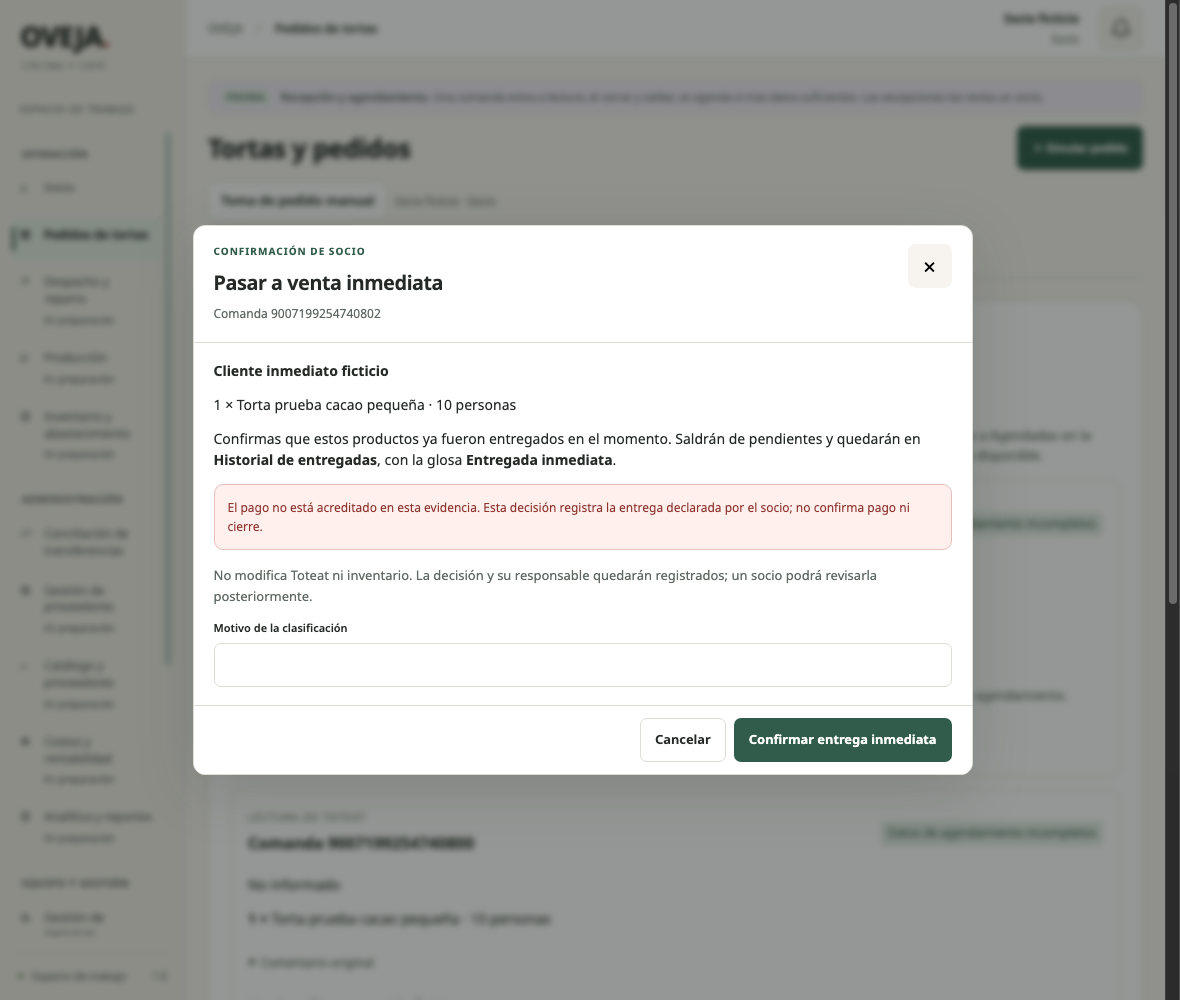
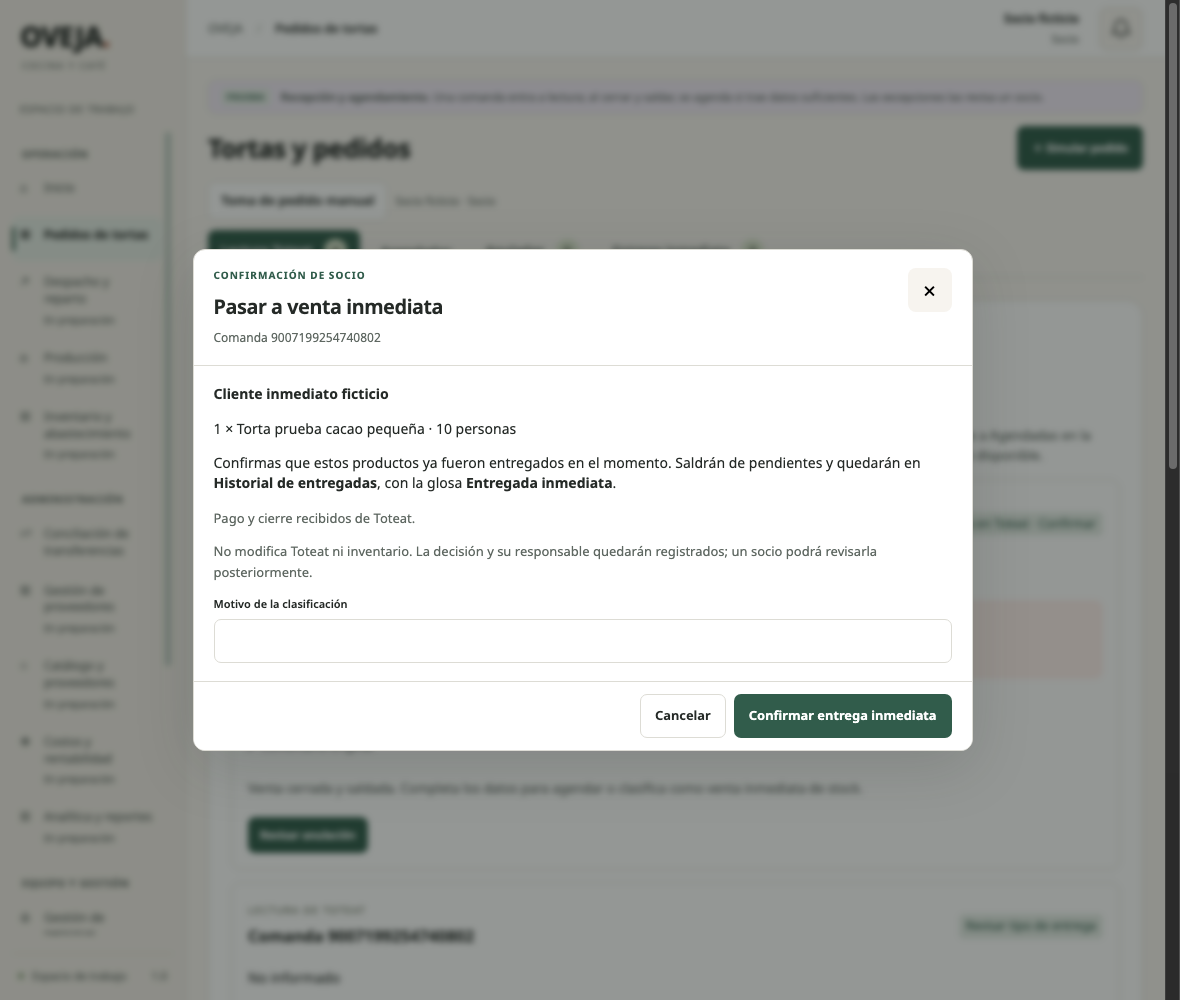
Require settled source for immediate delivery and confirm local cancellations

diff --git a/static/reception.js b/static/reception.js
@@ -1,33 +1,34 @@
 'use strict';
 
-const sourceAlertLabel = alert => ({cancelled:'Anulado',partial_cancel:'Anulación parcial · revisar',refund_review:'Documento financiero anulado · revisar'}[alert?.state]||'');
+const sourceAlertLabel = alert => ({cancelled:alert?.resolution==='cancel'?'Anulado':'Anulada en Toteat · Confirmar',partial_cancel:'Anulación parcial · revisar',refund_review:'Documento financiero anulado · revisar'}[alert?.state]||'');
 function sourceAlertHTML(alert) {
   if(!alert)return '';
-  return `<div class="source-alert ${alert.state==='cancelled'?'cancelled':''}"><strong>${escapeHTML(sourceAlertLabel(alert))}</strong><p>${alert.state==='cancelled'?'Se anularon los compromisos pendientes. Las entregas ya realizadas se conservan en el historial.':alert.resolution==='keep'?'Un socio revisó la alerta y mantuvo el encargo.':'Comprueba con el cliente si se mantiene, cambia o anula el encargo. Una nota de crédito no demuestra por sí sola la cancelación completa.'}</p></div>`;
+  return `<div class="source-alert ${alert.state==='cancelled'?'cancelled':''}"><strong>${escapeHTML(sourceAlertLabel(alert))}</strong><p>${alert.state==='cancelled'?(alert.resolution==='cancel'?'Anulación confirmada en el ERP. Las entregas realizadas se conservan en el historial.':'Toteat informa una anulación. Un socio debe confirmar Anular en ERP; los estados locales todavía se conservan.'):alert.resolution==='keep'?'Un socio revisó la alerta y mantuvo el encargo.':'Comprueba con el cliente si se mantiene, cambia o anula el encargo. Una nota de crédito no demuestra por sí sola la cancelación completa.'}</p></div>`;
 }
 function receptionCard(order,resolved=false) {
   const reception=order.reception||{},alert=reception.alert;
   const immediate=reception.decision?.decision==='immediate';
   const closed=Boolean(reception.closed_at||order.sales_comment_evidence?.length||order.status_label==='CLOSED');
-  const incomplete=closed&&Boolean(reception.parsed?.issues?.length);
-  const title=immediate?'Entregada inmediata':alert?sourceAlertLabel(alert):incomplete?'Datos de agendamiento incompletos':closed&&!reception.payment?'Mesa cerrada · revisar pago':closed?'Pendiente de revisión':'Esperando pago y cierre';
+  const incomplete=reception.can_classify_immediate===true;
+  const title=alert?sourceAlertLabel(alert):immediate?'Entregada inmediata':incomplete?'Revisar tipo de entrega':closed&&!reception.closed_payload_received?'Esperando datos de venta cerrada':closed&&!reception.payment?'Mesa cerrada · revisar pago':closed?'Pendiente de revisión':'Esperando pago y cierre · Datos pendientes de recibir';
   const missing=reception.missing_fields||[...(reception.parsed?.issues||[]),...(reception.parsed?.warnings||[])].map(code=>({nombre_pendiente:'Nombre y apellido',fecha_pendiente:'Fecha de entrega',horario_pendiente:'Hora de entrega',telefono_pendiente:'Teléfono'}[code])).filter(Boolean);
 
-  return `<article class="reception-card"><header><div><small>LECTURA DE TOTEAT</small><h3>Comanda ${escapeHTML(order.order_id)}</h3></div><span class="timing-label">${escapeHTML(title)}</span></header><p>${escapeHTML(reception.channel||'No informado')}${order.vendor?` · ${escapeHTML(order.vendor)}`:''}</p>${sourceAlertHTML(alert)}${order.items.map(item=>`<p><strong>${escapeHTML(item.quantity)} ×</strong> ${escapeHTML(item.productName||'Producto del catálogo')}</p>`).join('')}<details data-comment-key="${escapeHTML(order.key)}" ${state.commentDisclosure.get(order.key)!==false?'open':''}><summary>Comentario original</summary><p class="source-comment">${escapeHTML(reception.original_comment || order.comments.map(c=>c.text).join('\n') || 'Toteat todavía no entrega el comentario del cliente.')}</p></details>${incomplete&&!immediate?`<p class="hint">Falta revisar: ${missing.map(escapeHTML).join(' · ')}. Confirma si fue entrega inmediata o completa los datos de agendamiento.</p>`:''}${reception.payment&&!immediate&&!reception.order_id?'<p class="hint">Venta cerrada y saldada. Completa los datos para agendar o clasifica como venta inmediata de stock.</p>':''}<div class="actions">${state.partner?`<button class="button ${resolved?'secondary':'primary'}" data-action="reception" data-key="${escapeHTML(order.key)}">${resolved?'Ver revisión e historial':reception.order_id?'Revisar alerta y pedido':reception.payment?'Completar o clasificar':'Forzar agendamiento'}</button>`:'<small>La revisión y autorización corresponden a un socio.</small>'}${state.partner&&!resolved&&!reception.order_id&&!alert?`<button class="button secondary" data-action="reception-immediate-open" data-key="${escapeHTML(order.key)}">Pasar a venta inmediata</button>`:''}${reception.order_id?`<button class="button secondary" data-action="detail" data-id="${reception.order_id}">Ver pedido agendado</button>`:''}</div></article>`;
+  return `<article class="reception-card"><header><div><small>LECTURA DE TOTEAT</small><h3>Comanda ${escapeHTML(order.order_id)}</h3></div><span class="timing-label">${escapeHTML(title)}</span></header><p>${escapeHTML(reception.channel||'No informado')}${order.vendor?` · ${escapeHTML(order.vendor)}`:''}</p>${sourceAlertHTML(alert)}${order.items.map(item=>`<p><strong>${escapeHTML(item.quantity)} ×</strong> ${escapeHTML(item.productName||'Producto del catálogo')}</p>`).join('')}<details data-comment-key="${escapeHTML(order.key)}" ${state.commentDisclosure.get(order.key)!==false?'open':''}><summary>Comentario original</summary><p class="source-comment">${escapeHTML(reception.closed_payload_received?(reception.original_comment||'La venta cerrada no trae comentario.'):(reception.original_comment||order.comments.map(c=>c.text).join('\n')||'Datos pendientes de recibir desde Toteat.'))}</p></details>${incomplete&&!immediate?`<p class="hint">Falta revisar: ${missing.map(escapeHTML).join(' · ')}. Confirma si fue entrega inmediata o completa los datos de agendamiento.</p>`:''}${reception.payment&&!immediate&&!reception.order_id?'<p class="hint">Venta cerrada y saldada. Completa los datos para agendar o clasifica como venta inmediata de stock.</p>':''}<div class="actions">${state.partner?`<button class="button ${resolved?'secondary':'primary'}" data-action="reception" data-key="${escapeHTML(order.key)}">${resolved?'Ver revisión e historial':alert&&!alert.resolution?'Revisar anulación':reception.order_id?'Revisar alerta y pedido':reception.payment?'Completar o clasificar':'Forzar agendamiento'}</button>`:'<small>La revisión y autorización corresponden a un socio.</small>'}${state.partner&&!resolved&&reception.can_classify_immediate===true?`<button class="button secondary" data-action="reception-immediate-open" data-key="${escapeHTML(order.key)}">Pasar a venta inmediata</button>`:''}${reception.order_id?`<button class="button secondary" data-action="detail" data-id="${reception.order_id}">Ver pedido agendado</button>`:''}</div></article>`;
 }
 function renderToteat() {
   const board=state.board,reader=board.toteat||{state:'not_configured',orders:[]};
-  $('#toteat-panel').classList.toggle('hidden',board.operating_mode!=='toteat-local'||state.view!=='inbox');
+  $('#toteat-panel').classList.toggle('hidden',board.operating_mode!=='toteat-local'||state.view==='agenda');
   const fresh=reader.state==='receiving'&&reader.last_success&&Date.now()-Date.parse(reader.last_success)<90000;
   const sales=reader.sales_reader,salesFresh=sales?.state==='receiving'&&sales.last_success&&Date.now()-Date.parse(sales.last_success)<240000;
   $('#toteat-reader-state').textContent=(fresh?'Lectura activa · cada 30 segundos':'Lectura pendiente o sin actualización reciente')+(salesFresh?' · Ventas cada 90 segundos':' · Ventas por revisar');
   const pending=reader.orders||[],resolved=reader.reviewed_orders||[];
-  $('#toteat-count').textContent=pending.length;
-  $('#toteat-orders').innerHTML=pending.map(order=>receptionCard(order)).join('')||'<div class="empty compact"><strong>Sin comandas pendientes.</strong>Los encargos confirmados están en Agendadas.</div>';
-  const delivered=resolved.filter(order=>order.reception?.decision?.decision==='immediate'),cancelled=resolved.filter(order=>order.reception?.decision?.decision!=='immediate');
-  if(delivered.length)$('#toteat-orders').insertAdjacentHTML('beforeend',`<details class="resolved-receptions"><summary>Historial de entregadas · ${delivered.length}</summary>${delivered.map(order=>receptionCard(order,true)).join('')}</details>`);
-  if(cancelled.length)$('#toteat-orders').insertAdjacentHTML('beforeend',`<details class="resolved-receptions"><summary>Historial de anuladas · ${cancelled.length}</summary>${cancelled.map(order=>receptionCard(order,true)).join('')}</details>`);
-  if(board.operating_mode==='toteat-local'&&(state.scope==='operations'||state.view==='inbox')) {
+  const cancelled=resolved.filter(order=>order.reception?.alert?.resolution==='cancel'),delivered=resolved.filter(order=>order.reception?.alert?.resolution!=='cancel'&&order.reception?.decision?.decision==='immediate');
+  $('#cancelled-tab-count').textContent=cancelled.length;$('#immediate-tab-count').textContent=delivered.length;
+  const history=state.view==='cancelled'||state.view==='immediate';
+  const shown=state.view==='cancelled'?cancelled:state.view==='immediate'?delivered:pending;
+  $('#toteat-count').textContent=shown.length;
+  $('#toteat-orders').innerHTML=(history?`<h3>${state.view==='cancelled'?'Historial de anuladas':'Historial de entregadas'}</h3><p class="hint">Mismos registros de origen y trazabilidad conservada.</p>`:'')+(shown.map(order=>receptionCard(order,history)).join('')||`<div class="empty compact"><strong>${history?'Sin registros en este historial.':'Sin comandas pendientes.'}</strong>${history?'Las decisiones confirmadas aparecerán aquí.':'Los encargos confirmados están en Agendadas.'}</div>`);
+  if(board.operating_mode==='toteat-local'&&(state.scope==='operations'||state.view!=='agenda')) {
     $('.connection').textContent=fresh?'Toteat · lectura activa':'Toteat · lectura por revisar';
     $('#data-notice').innerHTML='<strong>Recepción y agendamiento.</strong> Una comanda entra a lectura; al cerrar y saldar, se agenda si trae datos suficientes. Las excepciones las revisa un socio.';
   }
@@ -40,10 +41,10 @@ async function showReception(key) {
     const blocked=alert?.state==='cancelled'||(alert&&!alert.resolution);
     const immediate=context.decision?.decision==='immediate';
     const canSchedule=!context.order_id&&!blocked;
-    const body=`${sourceAlertHTML(alert)}<div class="detail-field source-comment"><small>Comentario original · conservado</small>${escapeHTML(context.original_comment||'Sin comentario del cliente')}</div><p>${context.payment?'Cierre y saldo recibidos de Toteat.':context.closed_at?'Mesa cerrada. El detalle del pago debe revisarse; no se registra dinero al clasificar.':'Sin cierre y saldo acreditados. Forzar agendamiento requiere autorización del socio y no registra pago.'}</p>${canSchedule?`<form id="reception-form"><div id="form-error" class="error hidden" role="alert"></div><div class="form-grid">${field('Nombre y apellido','customer',parsed.customer,'text','required maxlength="160"')}${field('Teléfono','customer_phone',parsed.customer_phone,'tel','required maxlength="25"')}${field('Fecha y hora de entrega · Chile','pickup_at',parsed.pickup_at||'','datetime-local','required')}${selectField('Modalidad','fulfillment',[['retiro','Retiro en local'],['despacho','Delivery']],'retiro')}${field('Dirección para delivery','delivery_address','','text','maxlength="500"')}${selectField('Canal de origen','channel',[['Presencial','Presencial'],['Instagram','Instagram'],['Web/Mercat','Web/Mercat'],['','Seleccionar canal']],context.channel==='No informado'?'':context.channel)}<label class="field full">Motivo de autorización o clasificación<input name="reason" required maxlength="500"></label><label class="check-field full"><input name="is_test" type="checkbox" ${parsed.test_marker?'checked':''}>Prueba ficticia</label></div><h3 class="section-label">Productos recibidos</h3>${context.received.items.map(i=>`<p>${escapeHTML(i.quantity)} × ${escapeHTML(i.productName)}</p>`).join('')}<p class="hint">El cierre posterior se vinculará a este mismo pedido, preservando las modificaciones del cliente.</p></form>`:`<form id="reception-decision-form"><div id="form-error" class="error hidden" role="alert"></div>${alert&&alert.state!=='cancelled'&&!alert.resolution?`${selectField('Resolución','decision',[['keep','Mantener el encargo'],['cancel','Confirmar anulación del encargo']],'keep')}${field('Motivo y verificación realizada','reason','','text','required maxlength="500"')}`:''}</form>`}<details><summary>Trazabilidad · ${context.history.length} movimientos</summary>${context.history.map(e=>`<article class="history-entry"><strong>${escapeHTML(e.action)} · ${escapeHTML(e.actor)}</strong><p>${escapeHTML(e.reason)}</p><time>${escapeHTML(new Date(e.occurred_at).toLocaleString('es-CL',{timeZone:'America/Santiago'}))}</time><details><summary>Evidencia y cambios</summary><pre>${escapeHTML(JSON.stringify({antes:e.before,después:e.after},null,2))}</pre></details></article>`).join('')||'<p>Recepción conservada; sin decisiones de socios.</p>'}</details>`;
+    const body=`${sourceAlertHTML(alert)}<div class="detail-field source-comment"><small>Comentario original · conservado</small>${escapeHTML(context.original_comment||'Sin comentario del cliente')}</div><p>${context.payment?'Cierre y saldo recibidos de Toteat.':context.closed_at?'Mesa cerrada. El detalle del pago debe revisarse; no se registra dinero al clasificar.':'Sin cierre y saldo acreditados. Forzar agendamiento requiere autorización del socio y no registra pago.'}</p>${canSchedule?`<form id="reception-form"><div id="form-error" class="error hidden" role="alert"></div><div class="form-grid">${field('Nombre y apellido','customer',parsed.customer,'text','required maxlength="160"')}${field('Teléfono','customer_phone',parsed.customer_phone,'tel','required maxlength="25"')}${field('Fecha y hora de entrega · Chile','pickup_at',parsed.pickup_at||'','datetime-local','required')}${selectField('Modalidad','fulfillment',[['retiro','Retiro en local'],['despacho','Delivery']],'retiro')}${field('Dirección para delivery','delivery_address','','text','maxlength="500"')}${selectField('Canal de origen','channel',[['Presencial','Presencial'],['Instagram','Instagram'],['Web/Mercat','Web/Mercat'],['','Seleccionar canal']],context.channel==='No informado'?'':context.channel)}<label class="field full">Motivo de autorización o clasificación<input name="reason" required maxlength="500"></label><label class="check-field full"><input name="is_test" type="checkbox" ${parsed.test_marker?'checked':''}>Prueba ficticia</label></div><h3 class="section-label">Productos recibidos</h3>${context.received.items.map(i=>`<p>${escapeHTML(i.quantity)} × ${escapeHTML(i.productName)}</p>`).join('')}<p class="hint">El cierre posterior se vinculará a este mismo pedido, preservando las modificaciones del cliente.</p></form>`:`<form id="reception-decision-form"><div id="form-error" class="error hidden" role="alert"></div>${alert&&!alert.resolution?`${alert.state==='cancelled'?'<input type="hidden" name="decision" value="cancel"><p>Al confirmar <strong>Anular en ERP</strong> se cancelan los compromisos pendientes. Se conservan pagos, entregas realizadas e historial. No se modifica Toteat.</p>':selectField('Resolución','decision',[['keep','Mantener el encargo'],['cancel','Confirmar anulación del encargo']],'keep')}${field('Motivo y verificación realizada','reason','','text','required maxlength="500"')}`:''}</form>`}<details><summary>Trazabilidad · ${context.history.length} movimientos</summary>${context.history.map(e=>`<article class="history-entry"><strong>${escapeHTML(e.action)} · ${escapeHTML(e.actor)}</strong><p>${escapeHTML(e.reason)}</p><time>${escapeHTML(new Date(e.occurred_at).toLocaleString('es-CL',{timeZone:'America/Santiago'}))}</time><details><summary>Evidencia y cambios</summary><pre>${escapeHTML(JSON.stringify({antes:e.before,después:e.after},null,2))}</pre></details></article>`).join('')||'<p>Recepción conservada; sin decisiones de socios.</p>'}</details>`;
     let footer='<button class="button secondary" data-action="close">Cerrar</button>';
-    if(canSchedule)footer+=`${!immediate?'<button class="button secondary" data-action="reception-immediate">Pasar a venta inmediata</button>':''}<button class="button primary" type="submit" form="reception-form">${context.payment?'Agendar pedido':'Forzar agendamiento'}</button>`;
-    if(alert&&alert.state!=='cancelled'&&!alert.resolution)footer+='<button class="button primary" type="submit" form="reception-decision-form">Guardar resolución</button>';
+    if(canSchedule)footer+=`${context.can_classify_immediate===true?'<button class="button secondary" data-action="reception-immediate">Pasar a venta inmediata</button>':''}<button class="button primary" type="submit" form="reception-form">${context.payment?'Agendar pedido':'Forzar agendamiento'}</button>`;
+    if(alert&&!alert.resolution)footer+=`<button class="button ${alert.state==='cancelled'?'danger':'primary'}" type="submit" form="reception-decision-form">${alert.state==='cancelled'?'Anular en ERP':'Guardar resolución'}</button>`;
     if(context.order_id)footer+=`<button class="button secondary" data-action="detail" data-id="${context.order_id}">Ver pedido</button>`;
     modal('Revisar recepción',`Comanda ${context.received.order_id}`,body,footer,'SOLO SOCIOS');
   } catch(error){toast(error.message);}
@@ -52,9 +53,9 @@ async function showImmediateConfirmation(key){
   try{
     if(key)state.reception=await api('/api/toteat/reception?key='+encodeURIComponent(key));
     const context=state.reception;
-    if(!state.partner||!context||context.order_id)return;
+    if(!state.partner||!context?.can_classify_immediate)return;
     const previousReason=$('#reception-form')?.elements.reason.value||'';
-    modal('Pasar a venta inmediata',`Comanda ${context.received.order_id}`,`<form id="reception-immediate-form"><div id="form-error" class="error hidden" role="alert"></div><strong>${escapeHTML(context.parsed.customer||'Cliente sin informar')}</strong>${context.received.items.map(item=>`<p>${escapeHTML(item.quantity)} × ${escapeHTML(item.productName)}</p>`).join('')}<p>Confirmas que estos productos ya fueron entregados en el momento. Saldrán de pendientes y quedarán en <strong>Historial de entregadas</strong>, con la glosa <strong>Entregada inmediata</strong>.</p>${!context.payment?'<p class="error">El pago no está acreditado en esta evidencia. Esta decisión registra la entrega declarada por el socio; no confirma pago ni cierre.</p>':''}<p class="hint">No modifica Toteat ni inventario. La decisión y su responsable quedarán registrados; un socio podrá revisarla posteriormente.</p><label class="field">Motivo de la clasificación<input name="reason" required maxlength="500" value="${escapeHTML(previousReason)}"></label></form>`,'<button class="button secondary" data-action="close">Cancelar</button><button class="button primary" type="submit" form="reception-immediate-form">Confirmar entrega inmediata</button>','CONFIRMACIÓN DE SOCIO');
+    modal('Pasar a venta inmediata',`Comanda ${context.received.order_id}`,`<form id="reception-immediate-form"><div id="form-error" class="error hidden" role="alert"></div><strong>${escapeHTML(context.parsed.customer||'Cliente sin informar')}</strong>${context.received.items.map(item=>`<p>${escapeHTML(item.quantity)} × ${escapeHTML(item.productName)}</p>`).join('')}<p>Confirmas que estos productos ya fueron entregados en el momento. Saldrán de pendientes y quedarán en <strong>Historial de entregadas</strong>, con la glosa <strong>Entregada inmediata</strong>.</p><p class="hint">${context.payment?.state==='discount_settled'?'Mesa cerrada y saldada con descuento autorizado; no equivale a dinero recibido.':'Pago y cierre recibidos de Toteat.'}</p><p class="hint">No modifica Toteat ni inventario. La decisión y su responsable quedarán registrados; un socio podrá revisarla posteriormente.</p><label class="field">Motivo de la clasificación<input name="reason" required maxlength="500" value="${escapeHTML(previousReason)}"></label></form>`,'<button class="button secondary" data-action="close">Cancelar</button><button class="button primary" type="submit" form="reception-immediate-form">Confirmar entrega inmediata</button>','CONFIRMACIÓN DE SOCIO');
   }catch(error){toast(error.message);}
 }
 

diff --git a/static/app.js b/static/app.js
@@ -24,7 +24,7 @@ const modules={
 const initialView = new URLSearchParams(location.search);
 const localThemePreview=['127.0.0.1','localhost'].includes(location.hostname)&&['b','c'].includes(initialView.get('theme'))?initialView.get('theme'):'';
 if(localThemePreview)document.documentElement.dataset.theme=localThemePreview;
-for (const [key, allowed] of [['scope',['operations','tests','archived']],['view',['agenda','inbox']],['period',['day','week','biweekly','month','custom']]]) {
+for (const [key, allowed] of [['scope',['operations','tests','archived']],['view',['agenda','inbox','cancelled','immediate']],['period',['day','week','biweekly','month','custom']]]) {
   if (allowed.includes(initialView.get(key))) state[key]=initialView.get(key);
 }
 if(modules[initialView.get('module')])state.module=initialView.get('module');
@@ -170,7 +170,7 @@ function rememberView() {
   history.replaceState(null,'',`${location.pathname}?${params}`);
 }
 function renderWorkflow() {
-  document.body.classList.toggle('inbox-view',state.view==='inbox');
+  document.body.classList.toggle('inbox-view',state.view!=='agenda');
   for(const button of document.querySelectorAll('[data-view]')) {
     const active=button.dataset.view===state.view;
     button.classList.toggle('selected',active);button.setAttribute('aria-pressed',String(active));
@@ -179,11 +179,12 @@ function renderWorkflow() {
   const tests=state.board.test_order_count||0;
   $('#tests-in-period').classList.toggle('hidden',state.scope!=='operations'||!tests||state.board.operating_mode!=='toteat-local');
   $('#tests-in-period').innerHTML=`Hay ${tests} ${tests===1?'pedido de prueba agendado':'pedidos de prueba agendados'} en este período. Están separados de la operación. <button class="text-button" data-action="view-tests">Ver simulaciones del período →</button>`;
-  $('#record-scope-wrap').classList.toggle('hidden',state.view==='inbox'||state.board.operating_mode!=='toteat-local');
+  $('#record-scope-wrap').classList.toggle('hidden',state.view!=='agenda'||state.board.operating_mode!=='toteat-local');
 }
 function renderOrders() {
   if (!state.board) return;
   const orders = state.board.orders.filter(order => {
+    if(order.source_alert?.resolution==='cancel')return false;
     const matchStatus = state.filter === 'all' || order.items.some(item => state.filter === 'to-mark' ? ['pendiente','marcado_solicitado'].includes(item.status) : state.filter === 'marked' ? item.status === 'marcado' : ['entregado','cancelado'].includes(item.status));
     const searchable = [order.customer, order.source_id, order.channel, ...order.items.flatMap(item => [item.flavor,item.size,item.sku])].join(' ').toLocaleLowerCase('es');
     return (state.deliveryFilter === 'all' || order.delivery_timing === state.deliveryFilter) && matchStatus && searchable.includes(state.search.toLocaleLowerCase('es'));

diff --git a/static/index.html b/static/index.html
@@ -52,7 +52,7 @@
       <div class="demo-banner"><span class="demo-tag">DEMO</span><span id="data-notice"><strong>Pedidos y conteos ficticios.</strong> Catálogo demo · sin conexión a Toteat.</span><span class="connection"><span class="status-dot"></span> Sin sincronización</span></div>
       <section class="page-heading"><div><div class="eyebrow">OVEJA · PEDIDOS Y PRODUCCIÓN</div><h1>Tortas y pedidos</h1><p>Agenda, entregas y coordinación de producción.</p></div><button id="new-order" class="button primary admin-only"><span aria-hidden="true">＋</span> Nuevo pedido demo</button></section>
       <div class="order-tools"><div class="record-scope hidden" id="record-scope-wrap"><label>Registros <select id="record-scope" aria-label="Vista de registros"><option value="operations">Operación</option><option value="tests">Simulaciones</option><option value="archived">Pruebas retiradas</option></select></label><span id="scope-notice">Las simulaciones no afectan los indicadores operativos ni el stock.</span></div><div class="partner-access"><button id="sos-access" class="button secondary hidden">Toma de pedido manual</button><span id="partner-session-state">Acceso personal</span></div></div>
-      <nav class="workflow-tabs" aria-label="Etapas de los pedidos"><button data-view="inbox" aria-pressed="false">Lectura Toteat <span id="inbox-tab-count" class="count-bubble">0</span></button><button data-view="agenda" class="selected" aria-pressed="true">Agendadas</button></nav>
+      <nav class="workflow-tabs" aria-label="Etapas de los pedidos"><button data-view="inbox" aria-pressed="false">Lectura Toteat <span id="inbox-tab-count" class="count-bubble">0</span></button><button data-view="agenda" class="selected" aria-pressed="true">Agendadas</button><button data-view="cancelled" aria-pressed="false">Anuladas <span id="cancelled-tab-count" class="count-bubble">0</span></button><button data-view="immediate" aria-pressed="false">Entrega inmediata <span id="immediate-tab-count" class="count-bubble">0</span></button></nav>
       <div id="reader-warning" class="error agenda-only hidden" role="status"></div>
       <section class="metrics agenda-only" aria-label="Resumen de unidades del período">
         <article class="metric"><div class="metric-heading">Por marcar <span class="metric-icon amber">◷</span></div><strong id="metric-pending">—</strong><small id="metric-pending-detail">unidades pendientes</small></article>

diff --git a/erp/reception.py b/erp/reception.py
@@ -85,6 +85,19 @@ def check_revision(db,received,expected):
     if not isinstance(expected,str) or revision(db,received)!=expected:raise DomainError('La comanda cambió. Actualiza y revisa antes de decidir.',409)
 
 
+def immediate_eligible(sale,alert,order_id,decision):
+    """Evidencia cerrada recibida y saldada, con comentario vacío/incompleto."""
+    if not sale or alert or order_id or (decision and decision['decision']=='immediate'):return False
+    row=sale['transaction']
+    try:
+        payment=settlement(row)
+        reference=datetime.fromisoformat(payment['date_closed'])
+        if reference.tzinfo is None:reference=reference.replace(tzinfo=timezone.utc)
+        parsed=parse_comment(row.get('comment') or '',reference.astimezone(ZoneInfo('America/Santiago')).date())
+    except (ValueError,TypeError,KeyError):return False
+    return bool(parsed['issues'] or any(w in ('telefono_pendiente','telefono_por_revisar') for w in parsed['warnings']))
+
+
 def context(store,received,include_history=False):
     key=received['key']
     with store.connect() as db:
@@ -102,7 +115,7 @@ def context(store,received,include_history=False):
         closed_at=None
         original='\n'.join(c['text'] for c in received.get('comments',[]) if isinstance(c.get('text'),str))
         if sale:
-            row=sale['transaction'];original=row.get('comment') or original
+            row=sale['transaction'];original=row.get('comment') or ''
             try:result['payment']=settlement(row)
             except (ValueError,TypeError,KeyError):pass
             closed_at=row.get('dateClosed')
@@ -115,12 +128,14 @@ def context(store,received,include_history=False):
             if reference_time.tzinfo is None:reference_time=reference_time.replace(tzinfo=timezone.utc)
         except (ValueError,TypeError):closed_at=None;reference_time=datetime.now(timezone.utc)
         result['closed_at']=closed_at
+        result['closed_payload_received']=bool(sale and closed_at)
+        result['can_classify_immediate']=immediate_eligible(sale,alert,order_id,decision)
         result['parsed']=parse_comment(original,reference_time.astimezone(ZoneInfo('America/Santiago')).date())
         result['channel']=channel_from_platform(result['parsed']['platform'])
         result['original_comment']=original
         labels={'nombre_pendiente':'Nombre y apellido','fecha_pendiente':'Fecha de entrega','horario_pendiente':'Hora de entrega','telefono_pendiente':'Teléfono','telefono_por_revisar':'Teléfono por revisar','dia_semana_no_coincide':'Día y fecha no coinciden'}
         result['missing_fields']=[labels.get(code,'Comentario por revisar') for code in result['parsed']['issues']+result['parsed']['warnings'] if code in labels or code.startswith('campo_repetido_')]
-        result['review_state']='delivered_immediate' if decision and decision['decision']=='immediate' else 'scheduled' if order_id else 'schedule_incomplete' if closed_at and result['parsed']['issues'] else 'payment_review' if closed_at and not result['payment'] else 'source_review' if closed_at else 'waiting_close_payment'
+        result['review_state']='delivered_immediate' if decision and decision['decision']=='immediate' else 'scheduled' if order_id else 'waiting_closed_payload' if closed_at and not sale else 'payment_review' if closed_at and not result['payment'] else 'schedule_incomplete' if result['payment'] and result['can_classify_immediate'] else 'source_review' if closed_at else 'waiting_close_payment'
         return result
 
 
@@ -157,6 +172,11 @@ def decide(store,received,decision,partner,reason,expected):
         if before and before['decision']==decision:return dict(before)
         check_revision(db,received,expected);require_bindable(db,key)
         if linked_order(db,key):raise DomainError('La comanda ya tiene un pedido. Revisa ese pedido sin duplicarlo.',409)
+        if decision=='immediate':
+            sale=db.execute('SELECT payload_json FROM reception_sources WHERE source_id=?',(key,)).fetchone()
+            alert=db.execute('SELECT * FROM order_source_alerts WHERE source_id=?',(key,)).fetchone()
+            if not immediate_eligible(json.loads(sale[0]) if sale else None,alert,None,before):
+                raise DomainError('Requiere venta cerrada y saldada recibida, comentario vacío o incompleto y ninguna anulación.',409)
         db.execute('INSERT INTO reception_decisions(source_id,decision,partner_username,reason,updated_at) VALUES(?,?,?,?,?) ON CONFLICT(source_id) DO UPDATE SET decision=excluded.decision,partner_username=excluded.partner_username,reason=excluded.reason,version=version+1,updated_at=excluded.updated_at',(key,decision,partner['username'],reason,now()))
         event(store,db,key,'venta_inmediata_confirmada' if decision=='immediate' else 'revision_reabierta',partner['username'],reason,dict(before) if before else None,{'decision':decision,'delivery_status':'Entregada inmediata' if decision=='immediate' else None,'payment_recorded':False,'stock_movement':False})
         return dict(db.execute('SELECT * FROM reception_decisions WHERE source_id=?',(key,)).fetchone())
@@ -170,10 +190,7 @@ def record_alert(store,key,state,evidence):
         order_id=linked_order(db,key)
         before=store._get(db,order_id) if order_id else None
         db.execute('INSERT INTO order_source_alerts(source_id,order_id,state,digest,evidence_json,updated_at) VALUES(?,?,?,?,?,?) ON CONFLICT(source_id) DO UPDATE SET order_id=excluded.order_id,state=excluded.state,digest=excluded.digest,evidence_json=excluded.evidence_json,resolution=NULL,version=version+1,updated_at=excluded.updated_at',(key,order_id,state,fingerprint,canonical(evidence),now()))
-        if state=='cancelled' and order_id:
-            # La entrega efectuada no se borra; los compromisos pendientes se anulan.
-            db.execute("UPDATE items SET status='cancelado' WHERE order_id=? AND status NOT IN ('entregado','cancelado')",(order_id,))
-            store._touch(db,order_id)
+        # Detectar conserva los estados locales; anular requiere confirmación del socio.
         event(store,db,key,'anulacion_detectada' if state=='cancelled' else 'revision_fuente_requerida','Lector Toteat','Anulación explícita recibida de Toteat.' if state=='cancelled' else 'Revisar anulación parcial o documento financiero antes de modificar el encargo.',before,{'state':state,'evidence':evidence},order_id)
 
 
@@ -200,7 +217,7 @@ def resolve_alert(store,key,partner,reason,version,decision):
     with store.connect() as db:
         db.execute('BEGIN IMMEDIATE');alert=db.execute('SELECT * FROM order_source_alerts WHERE source_id=?',(key,)).fetchone()
         if not alert:raise DomainError('No hay una alerta para revisar.',404)
-        if alert['state']=='cancelled':raise DomainError('La anulación ya está registrada y no se puede descartar por esta vía.',409)
+        if alert['state']=='cancelled' and decision!='cancel':raise DomainError('La fuente está anulada. Solo puede confirmarse la anulación local.',409)
         if alert['resolution']==decision:return dict(alert)
         if type(version) is not int or version!=alert['version']:raise DomainError('La alerta cambió; actualiza antes de resolver.',409)
         order_id=linked_order(db,key)

diff --git a/tests/test_reception.py b/tests/test_reception.py
@@ -97,23 +97,27 @@ class ReceptionTests(unittest.TestCase):
         details=reception.context(self.store,received)
         self.assertEqual(details['original_comment'],row['comment'])
         self.assertIsNotNone(details['closed_at']);self.assertIsNone(details['payment'])
-        self.assertEqual(details['review_state'],'schedule_incomplete')
+        self.assertEqual(details['review_state'],'waiting_closed_payload');self.assertFalse(details['can_classify_immediate'])
         self.assertIn('Fecha de entrega',details['missing_fields']);self.assertIn('Hora de entrega',details['missing_fields'])
         self.assertIsNone(details['decision']);self.assertIsNone(details['order_id'])
         row,_,received=self.prepare(True,comment='Nombre: Cliente ficticio')
         details=reception.context(self.store,received)
         self.assertIsNotNone(details['payment']);self.assertEqual(details['review_state'],'schedule_incomplete')
 
-    def test_manual_immediate_records_delivery_without_inventing_payment_and_sync_preserves_it(self):
+    def test_manual_immediate_requires_received_settlement_and_sync_preserves_it(self):
         self.login();row,candidate,received=self.prepare(False)
         body=dict(source_key=received['key'],revision=reception.context(self.store,received)['revision'],decision='immediate',reason='Socio confirma entrega ficticia desde vitrina')
         with self.assertRaises(HTTPError) as denied:self.api('/api/toteat/reception/decide',body,headers={'Origin':'https://otro-sitio.invalid'})
         denied.exception.close();self.assertEqual(denied.exception.code,403)
         with self.assertRaises(HTTPError) as denied:self.api('/api/toteat/reception/decide',dict(body,reason=''))
         denied.exception.close();self.assertEqual(denied.exception.code,400)
+        with self.assertRaises(HTTPError) as denied:self.api('/api/toteat/reception/decide',body)
+        denied.exception.close();self.assertEqual(denied.exception.code,409)
+        reception.observe_sale(self.store,self.scope,row,candidate)
+        body['revision']=reception.context(self.store,received)['revision']
         self.api('/api/toteat/reception/decide',body);self.api('/api/toteat/reception/decide',body)
         details=reception.context(self.store,received,True)
-        self.assertIsNone(details['payment']);self.assertEqual(details['review_state'],'delivered_immediate')
+        self.assertIsNotNone(details['payment']);self.assertEqual(details['review_state'],'delivered_immediate')
         events=[e for e in details['history'] if e['action']=='venta_inmediata_confirmada']
         self.assertEqual(len(events),1);self.assertFalse(events[0]['after']['payment_recorded'])
         self.assertEqual(events[0]['after']['delivery_status'],'Entregada inmediata')
@@ -127,12 +131,17 @@ class ReceptionTests(unittest.TestCase):
         key=self.order['source_id'];row=dict(orderId=self.row['orderId'],orderStatus='CANCELLED')
         before=self.store.get(self.order['id'])
         reception.inspect_cancellation(self.store,self.scope,row);reception.inspect_cancellation(self.store,self.scope,row)
-        order=self.store.get(self.order['id']);self.assertEqual(order['status_label'],'Anulado')
-        self.assertEqual(order['items'][0]['status'],'cancelado');self.assertEqual(order['payment_confirmed'],before['payment_confirmed'])
+        order=self.store.get(self.order['id']);self.assertEqual(order['status_label'],'Anulada en Toteat · Revisar')
+        self.assertEqual(order['items'][0]['status'],before['items'][0]['status']);self.assertEqual(order['payment_confirmed'],before['payment_confirmed'])
         history=self.store.history(order['id']);self.assertEqual(history[0]['before']['status_label'],'Agendado')
         self.assertEqual(sum(e['action']=='anulacion_detectada' for e in history),1)
         with self.assertRaises(DomainError):self.store.transition(order['id'],order['items'][0]['id'],'pendiente','QA','Reversión ficticia',order['version'],True)
         with self.assertRaisesRegex(ValueError,'source_cancelled'):self.store.import_toteat_schedule(self.scope,self.row,self.candidate)
+        alert=order['source_alert']
+        reception.resolve_alert(self.store,key,self.partner,'Socio confirma anulación ficticia',alert['version'],'cancel')
+        reception.resolve_alert(self.store,key,self.partner,'Socio confirma anulación ficticia',alert['version'],'cancel')
+        after=self.store.get(order['id']);self.assertEqual(after['status_label'],'Anulado');self.assertEqual(after['items'][0]['status'],'cancelado')
+        self.assertEqual(sum(e['action']=='anulacion_confirmada_socio' for e in self.store.history(order['id'])),1)
 
     def test_partial_and_credit_note_require_review_numeric_status_never_cancels(self):
         row,candidate,received=self.prepare();product=self.store.catalog()[0]['source_product']['idToteat']
@@ -146,6 +155,26 @@ class ReceptionTests(unittest.TestCase):
         reception.observe_sale(self.store,self.scope,dict(row,fiscalType='NC',products=[]))
         self.assertEqual(reception.context(self.store,received)['alert']['state'],'refund_review')
         self.assertIsNone(reception.context(self.store,received)['alert']['resolution'])
+
+    def test_immediate_eligibility_truth_table_and_changed_source_is_rejected(self):
+        complete='Nombre: Cliente ficticio\nTeléfono: 000000000\nFecha: 30/10/2026\nHorario: 18:00\nPlataforma: LOCAL'
+        for comment in ('','Nombre: Cliente ficticio',complete):
+            for closed in (False,True):
+                for paid in (False,True):
+                    for cancelled in (False,True):
+                        with self.subTest(comment=bool(comment),complete=comment==complete,closed=closed,paid=paid,cancelled=cancelled):
+                            row=dict(self.row,comment=comment,dateClosed='2026-10-04T18:00:00' if closed else None,total=100,payed=100 if paid else 0,difference=0 if paid else 100,discounts=0)
+                            allowed=reception.immediate_eligible({'transaction':row},{'state':'cancelled'} if cancelled else None,None,None)
+                            self.assertEqual(allowed,closed and paid and not cancelled and comment!=complete)
+        row=dict(self.row,comment='',total=0,payed=0,discounts=-100,difference=0)
+        self.assertTrue(reception.immediate_eligible({'transaction':row},None,None,None))
+        self.login();row,candidate,received=self.prepare()
+        stale=reception.context(self.store,received)['revision']
+        reception.observe_sale(self.store,self.scope,dict(row,comment=complete),candidate)
+        body=dict(source_key=received['key'],revision=stale,decision='immediate',reason='Prueba de carrera')
+        with self.assertRaises(HTTPError) as denied:self.api('/api/toteat/reception/decide',body)
+        denied.exception.close();self.assertEqual(denied.exception.code,409)
+        self.assertIsNone(reception.context(self.store,received)['decision'])
 
     def test_platform_aliases(self):
         for raw,expected in [('Local','Presencial'),(' IG ','Instagram'),('Instagram','Instagram'),('web','Web/Mercat'),('Mercat','Web/Mercat'),('Otro','No informado')]:self.assertEqual(channel_from_platform(raw),expected)

diff --git a/app.py b/app.py
@@ -43,10 +43,10 @@ def inbox_view(path,store=None):
         order['reception']=details
         decision=(details.get('decision') or {}).get('decision')
         alert=details.get('alert') or {}
-        if decision=='immediate' or alert.get('state')=='cancelled':
-            reviewed.append(order)
-        elif alert and not alert.get('resolution'):
+        if alert and not alert.get('resolution'):
             pending.append(order)
+        elif decision=='immediate' or (alert.get('state')=='cancelled' and alert.get('resolution')=='cancel'):
+            reviewed.append(order)
         elif details.get('order_id') or order.get('scheduling',{}).get('status')=='scheduled' or order.get('key') in linked:
             if order.get('scheduling',{}).get('status')=='needs_review':pending.append(order)
             else:scheduled+=1

diff --git a/erp/store.py b/erp/store.py
@@ -184,7 +184,8 @@ class Store:
         order['source_comment'] = order.get('toteat_schedule',{}).get('original_comment',order['comments'] if source else '')
         from erp.reception import order_alert
         order['source_alert'] = order_alert(db,order_id)
-        if order['source_alert'] and order['source_alert']['state']=='cancelled':order['status_label']='Anulado'
+        if order['source_alert'] and order['source_alert']['state']=='cancelled':
+            order['status_label']='Anulado' if order['source_alert']['resolution']=='cancel' else 'Anulada en Toteat · Revisar'
         return order
 
     def import_toteat_schedule(self, scope, transaction, candidate, is_test=False, receipt=None):

diff --git a/docs/CHECKPOINT.md b/docs/CHECKPOINT.md
@@ -19,8 +19,9 @@ Carpeta correcta: `/Users/estebaniturra/Documents/ChatGPT/ERP Oveja`. No se borr
 - Comentario abierto por defecto; cerrar/abrir manualmente se conserva durante las actualizaciones de la sesión. Al salir se borra ese estado local.
 - «Forzar agendamiento» exclusivo de socios, con motivo y trazabilidad; no confirma pago. Se eliminan los números fijos 1/2 de pestañas y se conservan contadores dinámicos.
 - Lista y detalle usan la misma evidencia del comentario de venta. Una mesa cerrada con datos insuficientes se muestra en revisión; no como esperando cierre. Sin inferir pago por el comentario.
-- «Pasar a venta inmediata» exige confirmación y motivo del socio. Cancelar no cambia datos. Confirmar deja la misma identidad en «Historial de entregadas», glosa «Entregada inmediata», sin generar demanda programada ni inventar pago/inventario. El cierre posterior no duplica ni vuelve a agendar.
-- **200 pruebas Python aprobadas**, además de sintaxis JS y pruebas Node de notificaciones. QA de recepción en Chrome dedicado, fixtures 1180/320: apertura/cierre de comentarios y refresco, cancelar sin mutación, doble clic idempotente, pago no acreditado conservado, agendamiento, foto en modal y opción de venta exacta. Cero errores JS. Capturas ficticias `qa/immediate-confirmation-*-fake.png`, `qa/reception-history-*-fake.png`.
+- «Pasar a venta inmediata» exige respuesta de venta cerrada y saldada ya recibida, comentario vacío o incompleto, confirmación y motivo del socio. Un cliente completo por sí solo no genera agendamiento: se requiere fecha/hora de entrega interpretables. Antes de recibir la venta cerrada, los datos están pendientes, no se clasifican como incompletos. Cancelar no cambia datos. Confirmar deja la misma identidad en «Historial de entregadas», glosa «Entregada inmediata», sin generar demanda programada ni inventar pago/inventario. El cierre posterior no duplica ni vuelve a agendar.
+- **201 pruebas Python aprobadas**, además de sintaxis JS y pruebas Node de notificaciones. QA de recepción en Chrome dedicado, fixtures 1180/320: apertura/cierre de comentarios y refresco, cancelar sin mutación, doble clic idempotente, cierre/saldo exigidos, cambios concurrentes rechazados, anulación con confirmación, cuatro pestañas con recarga, agendamiento, foto en modal y opción de venta exacta. Cero errores JS. Capturas ficticias `qa/immediate-confirmation-*-fake.png`, `qa/reception-history-*-fake.png`.
+- Pestañas en orden: Lectura Toteat | Agendadas | Anuladas | Entrega inmediata. Las anulaciones explícitas de fuente quedan pendientes de confirmación «Anular en ERP»; el lector no cambia los ítems por sí solo. Los historiales conservan las mismas identidades.
 - La web local todavía ejecuta el backend anterior al corte; los cambios HTML/CSS/JS ya se sirven. La activación final será en Hetzner. Ningún pedido real se reclasificó manualmente durante estas pruebas.
 - Bot: proyección de revisiones, comanda elegida, monto, cajera, verificaciones, historial, cierres y salud implementada. Foto y detalle futuro requieren activar el hook ensayado. Las fotos históricas inexistentes no se pueden recuperar. No retirar el panel anterior si faltan funciones de seguimiento que todavía use el equipo.
 - Respaldo incremental privado de fotos/selecciones del bot y timer diario añadido. Falta activarlo y verificarlo en el servidor; copias externas cifradas/retención siguen pendientes.

diff --git a/README.md b/README.md
@@ -109,7 +109,9 @@ El tipo pertenece al pedido: se mantiene el mismo producto y no se duplica inven
 
 El filtro de entrega cambia las tarjetas visibles; los indicadores, resumen y texto para copiar siguen abarcando todo el período. Las entregas inmediatas no participan en la métrica de puntualidad de las programadas. Corregir el tipo no cambia estados automáticamente; una reclasificación a inmediata requiere ítems ya entregados. Las correcciones y reversiones conservan auditoría.
 
-En Lectura Toteat, el comentario queda abierto por defecto y el cierre manual se respeta durante las actualizaciones de la sesión. Los socios pueden **Pasar a venta inmediata**, con confirmación y motivo: queda en **Historial de entregadas** como **Entregada inmediata**, sin demanda programada. La declaración manual no acredita pago ni modifica Toteat o inventario; un cierre posterior conserva la misma identidad.
+En Lectura Toteat, el comentario queda abierto por defecto y el cierre manual se respeta durante las actualizaciones de la sesión. Los socios pueden **Pasar a venta inmediata** solo tras recibir la venta cerrada y saldada con comentario vacío o incompleto, con confirmación y motivo: queda en **Historial de entregadas** como **Entregada inmediata**, sin demanda programada. El saldo con descuento se distingue del dinero recibido. La clasificación no modifica Toteat o inventario; un cierre posterior conserva la misma identidad.
+
+Una anulación explícita de Toteat se resalta para revisión: el socio confirma **Anular en ERP** con motivo. Solo entonces cambia los compromisos pendientes; conserva entregas previas, pago e historial. Las pestañas **Anuladas** y **Entrega inmediata** muestran los registros resueltos sin duplicarlos en Lectura.
 
 El lector de ventas cerradas interpreta el comentario siguiendo el afiche de cajeras y conserva el texto original. No infiere entrega inmediata por falta de comentario. Una venta inmediata sigue siendo entrega confirmada en el flujo manual; su clasificación automática por API aún requiere evidencia explícita.
 
